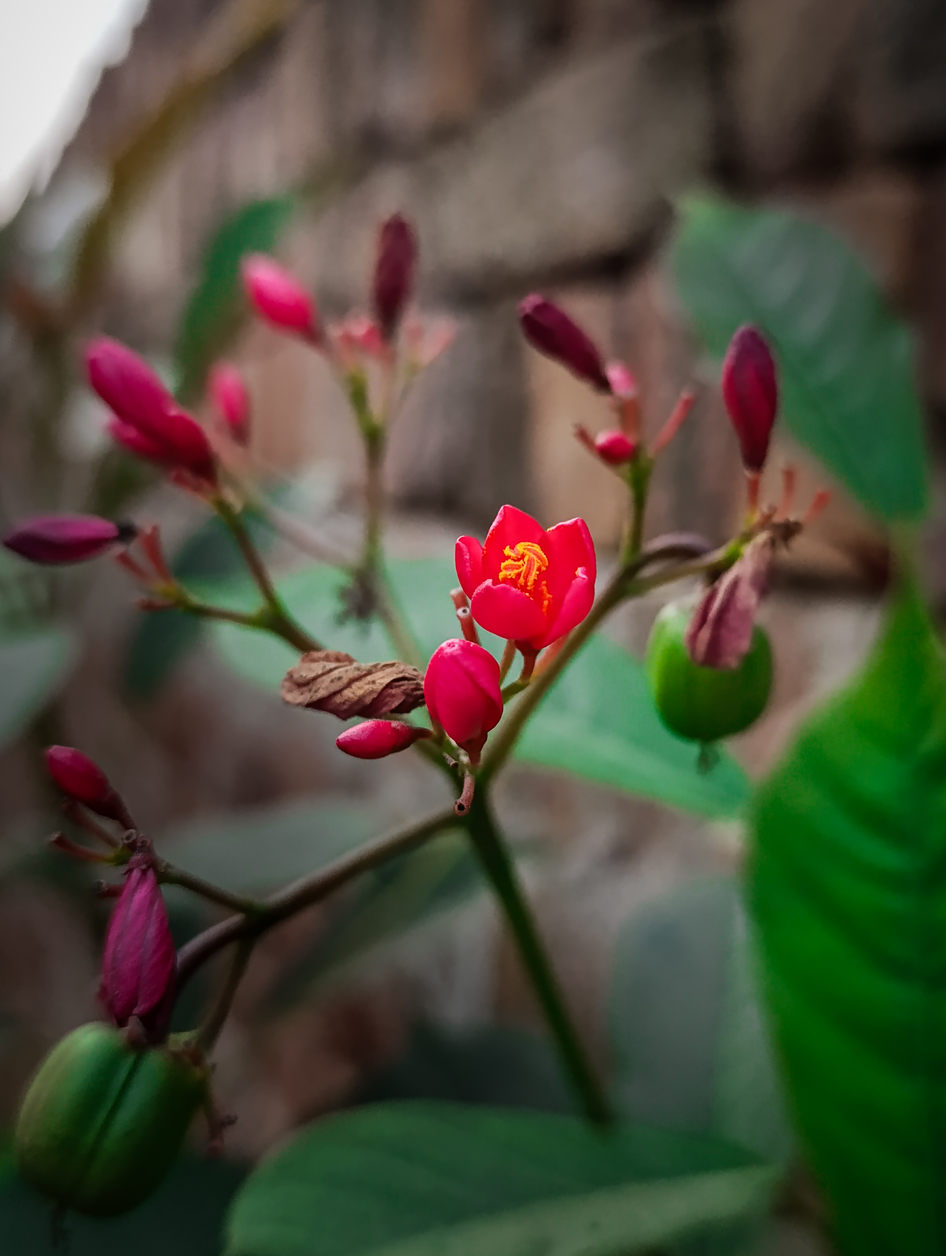
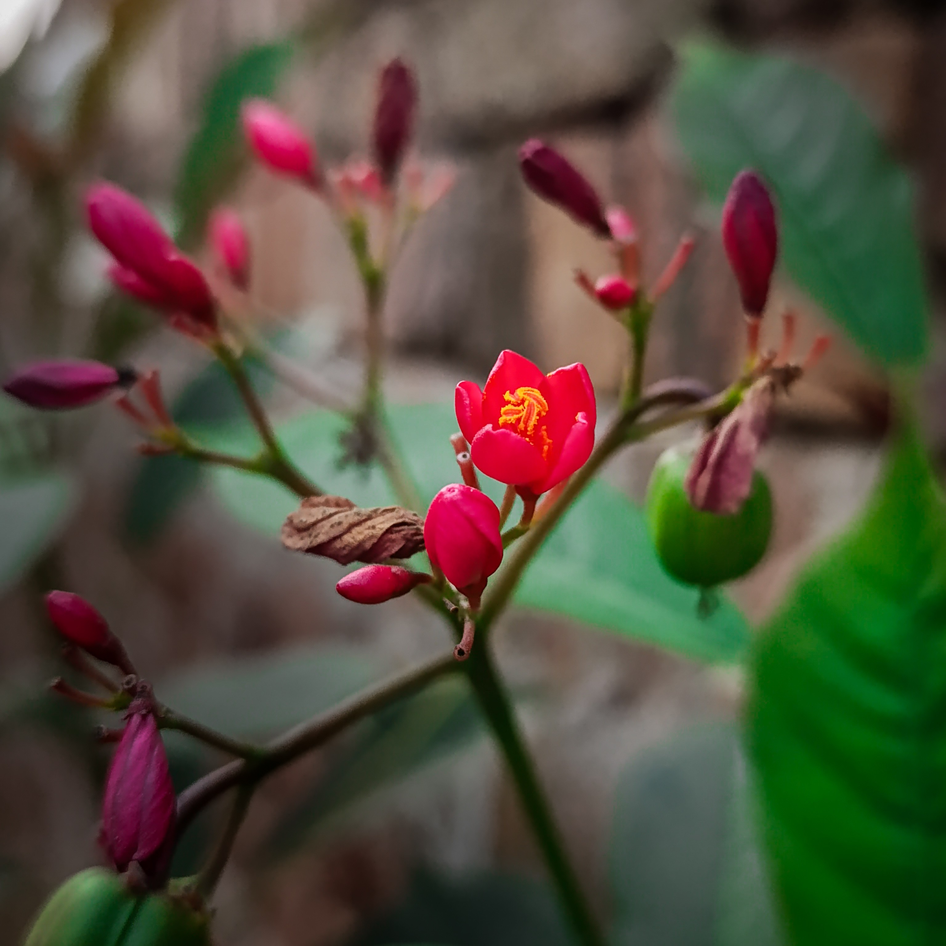
chng

diff --git a/index.html b/index.html
@@ -1,36 +1,38 @@
 <html>
 <head>
-<title> Exercise 7 </title>
+<title> Home </title>
 <link href="Exercise7.css" rel="stylesheet" type"="text/CSS">
 </head>
-<body style="background-color:#DBDBDB;">
+<body style="background-color:#DBDBDB; margin: 0; padding: 0;">
 
-	<div id="header">
-		<div>
+<div id="nav">
+		<span style=" text-align:center;"> <a href="index.html">Home</a> </span>
+		<span style=" text-align:center;"> <a href="images.html">Images</a> </span>
+		<span style=" text-align:center;"> <a href="videos.html">Videos</a> </span>
+		<span style=" text-align:center;"> <a href="about.html">About me</a>  </span>
+		<span style=" text-align:center;"> <a href="contact.html">Contact  </a> </span>
+	</div>
+	
+<div id="header">
+<div>
 		<a href="index.html">  <h1 style="font-size:40px;  margin-left:30px;"> Aesthetic Kaiffee </h1> </a>
 		</div>
-	</div>
-	
-	<div id="nav">
-		<span style=" text-align:center;"> <a href="index.html">Home</a> </span>
-		<span style=" text-align:center;"> <a href="Images.html">Images</a> </span>
-		<span style=" text-align:center;"> <a href="videos.html">Videos</a> </span>
-		<span style=" text-align:center;"> <a href="About.html">About me</a>  </span>
-		<span style=" text-align:center;"> <a href="Contact.html">Contact us</a> </span>
-	</div>
-	
-	<center><marquee behavior="alternate" scrollamount="5" scrolldelay="60" onmouseover="this.stop()" onmouseout="this.start()">
-    <font size="5" color="black"> I'm Muhammad Kaif & This is the collection of my Photo/Videography </font> </marquee> </center>
-	
+</div>
+		
 <div id="sa">
 <p>  
-☉ Introvert 
-☉ Ex_Wုsd၀mုan_
-☉ Ex_Pပnjabုan_
-☉ Gamer🎮 • Photographer 📸 • Artist🖼
-☉ 🇵🇰•🇶🇦•🇹🇷•🇫🇮
- 
-<div>
+&nbsp; &nbsp; ☉ Introvert &nbsp; &nbsp;
+☉ Ex_Wုsd၀mုan_  &nbsp; &nbsp;
+☉ Ex_Pပnjabုan_   &nbsp; &nbsp;
+☉ Gamer🎮   &nbsp; &nbsp;
+☉ Photographer 📸   &nbsp; &nbsp;
+☉ Artist🖼   &nbsp; &nbsp;
+ </p>
+</div>
+
+
+
+
 
 
 

diff --git a/Exercise7.css b/Exercise7.css
@@ -1,41 +1,24 @@
-#header{
-	width:90%;
-	background-image:url('fl2.jpg');
-	height:430px;
-	background-size:cover;
-	display:flex;
-	margin:auto;
-	border-radius:15px;
-	margin-top:0;
-}
-#header a{
-	text-decoration:none;
-	font-family:Arial, sans-sarif;
-	color:black;
-	display:block;
-	font-weight:1000;
-}
-#header a:hover{
-	color:white;	
-}
 #nav{
 	display:flex;
 	padding-top:1px;
 	padding-bottom:1px;
-	margin-top:5px;
-	margin:auto;
-	width:90%;	
+	height:60px;
+	width:100%;	
+	position:sticky;
+	left:0;
+	right:0;
+	background-color:black;
 }
 #nav span{
 	width:20%;
 	cursor:pointer; 
-	background-color:#DBDBDB;
-	border: 1px solid #DBDBDB;
+	background-color:black;
+	border: 1px solid;
 }
 #nav a{
 	text-decoration:none;
 	font-family:Arial, sans-sarif;
-	color:black;
+	color:white;
 	font-size:26px;
 	padding-top:10px;
 	padding-bottom:10px;
@@ -48,15 +31,30 @@
 	margin-top:-2px;
 	margin-bottom:-2px;
 	}	
-marquee{
-	align-content:center;
-	width:90%;
-	padding-top:10px;
-	padding-bottom:10px;
-	border:3px solid black;
-	border-radius:15px;
-}
 	
+#header{
+	width:90%;
+	background-image:url('fl2.jpg');
+	height:430px;
+	background-size:cover;
+	display:flex;
+	margin:auto;
+	border-radius:15px;
+	margin-top:5px;
+	margin-bottom:5px;
+}
+#header a{
+	text-decoration:none;
+	font-family:Arial, sans-sarif;
+	color:white;
+	display:block;
+	font-weight:1000;
+}
+#header a:hover{
+	color:black;	
+}
+
+ 
 #sa p{
 	background-color:black;
 	border-radius:15px;
@@ -68,6 +66,31 @@ marquee{
 	width:90%;
 	align-content:center;
 	font-weight:700;
-	margin-top:5px;
+	margin-bottom:5px;
+	padding-top:5px;
+	padding-bottom:5px;
 	
 } 
+
+
+
+
+
+
+
+
+!-----------------------------------------------------------------------------IMAGES-------------------------------------------------------------------------!
+#images{
+width:100%;
+overflow:auto;
+padding-top:1px;
+padding-bottom:1px;
+ 
+}
+
+#images div{
+width:33%;
+cursor:pointer; 
+float:left;
+margin-left:1px;
+	}

diff --git a/images.html b/images.html
@@ -1,0 +1,34 @@
+<html>
+<head>
+<title> Images </title>
+
+<link href="Exercise7.css" rel="stylesheet" type"="text/CSS">
+</head>
+<body style="background-color:#DBDBDB; margin: 0; padding: 0;">
+
+
+<div id="nav">
+		<span style=" text-align:center;"> <a href="index.html">Home</a> </span>
+		<span style=" text-align:center;"> <a href="Images.html">Images</a> </span>
+		<span style=" text-align:center;"> <a href="videos.html">Videos</a> </span>
+		<span style=" text-align:center;"> <a href="About.html">About me</a>  </span>
+		<span style=" text-align:center;"> <a href="Contact.html">Contact  </a> </span>
+	</div>
+	
+<div id="images">
+	<div>
+	<div> <img width="350px" height="350px" src="fl1.jpg">   </div>
+	<div>   <img width="350px" height="350px" src="fl2.jpg"> </div>
+	<div>  <img width="350px" height="350px" src="fl3.jpg">  </div>
+	</div>
+
+
+
+
+
+
+
+</div>
+
+</body>
+</html>

diff --git a/contact.html b/contact.html
@@ -1,0 +1,21 @@
+<html>
+<head>
+<title> Contact </title>
+<link href="Exercise7.css" rel="stylesheet" type"="text/CSS">
+</head>
+<body style="background-color:#DBDBDB; margin: 0; padding: 0;">
+
+
+<div id="nav">
+		<span style=" text-align:center;"> <a href="index.html">Home</a> </span>
+		<span style=" text-align:center;"> <a href="Images.html">Images</a> </span>
+		<span style=" text-align:center;"> <a href="videos.html">Videos</a> </span>
+		<span style=" text-align:center;"> <a href="About.html">About me</a>  </span>
+		<span style=" text-align:center;"> <a href="Contact.html">Contact </a> </span>
+	</div>
+	
+
+
+
+</body>
+</html>

diff --git a/videos.html b/videos.html
@@ -1,0 +1,21 @@
+<html>
+<head>
+<title> Videos </title>
+<link href="Exercise7.css" rel="stylesheet" type"="text/CSS">
+</head>
+<body style="background-color:#DBDBDB; margin: 0; padding: 0;">
+
+
+<div id="nav">
+		<span style=" text-align:center;"> <a href="index.html">Home</a> </span>
+		<span style=" text-align:center;"> <a href="Images.html">Images</a> </span>
+		<span style=" text-align:center;"> <a href="videos.html">Videos</a> </span>
+		<span style=" text-align:center;"> <a href="About.html">About me</a>  </span>
+		<span style=" text-align:center;"> <a href="Contact.html">Contact  </a> </span>
+	</div>
+	
+
+
+
+</body>
+</html>

diff --git a/about.html b/about.html
@@ -1,0 +1,21 @@
+<html>
+<head>
+<title> About </title>
+<link href="Exercise7.css" rel="stylesheet" type"="text/CSS">
+</head>
+<body style="background-color:#DBDBDB; margin: 0; padding: 0;">
+
+
+<div id="nav">
+		<span style=" text-align:center;"> <a href="index.html">Home</a> </span>
+		<span style=" text-align:center;"> <a href="Images.html">Images</a> </span>
+		<span style=" text-align:center;"> <a href="videos.html">Videos</a> </span>
+		<span style=" text-align:center;"> <a href="About.html">About me</a>  </span>
+		<span style=" text-align:center;"> <a href="Contact.html">Contact </a> </span>
+	</div>
+	
+
+
+
+</body>
+</html>
